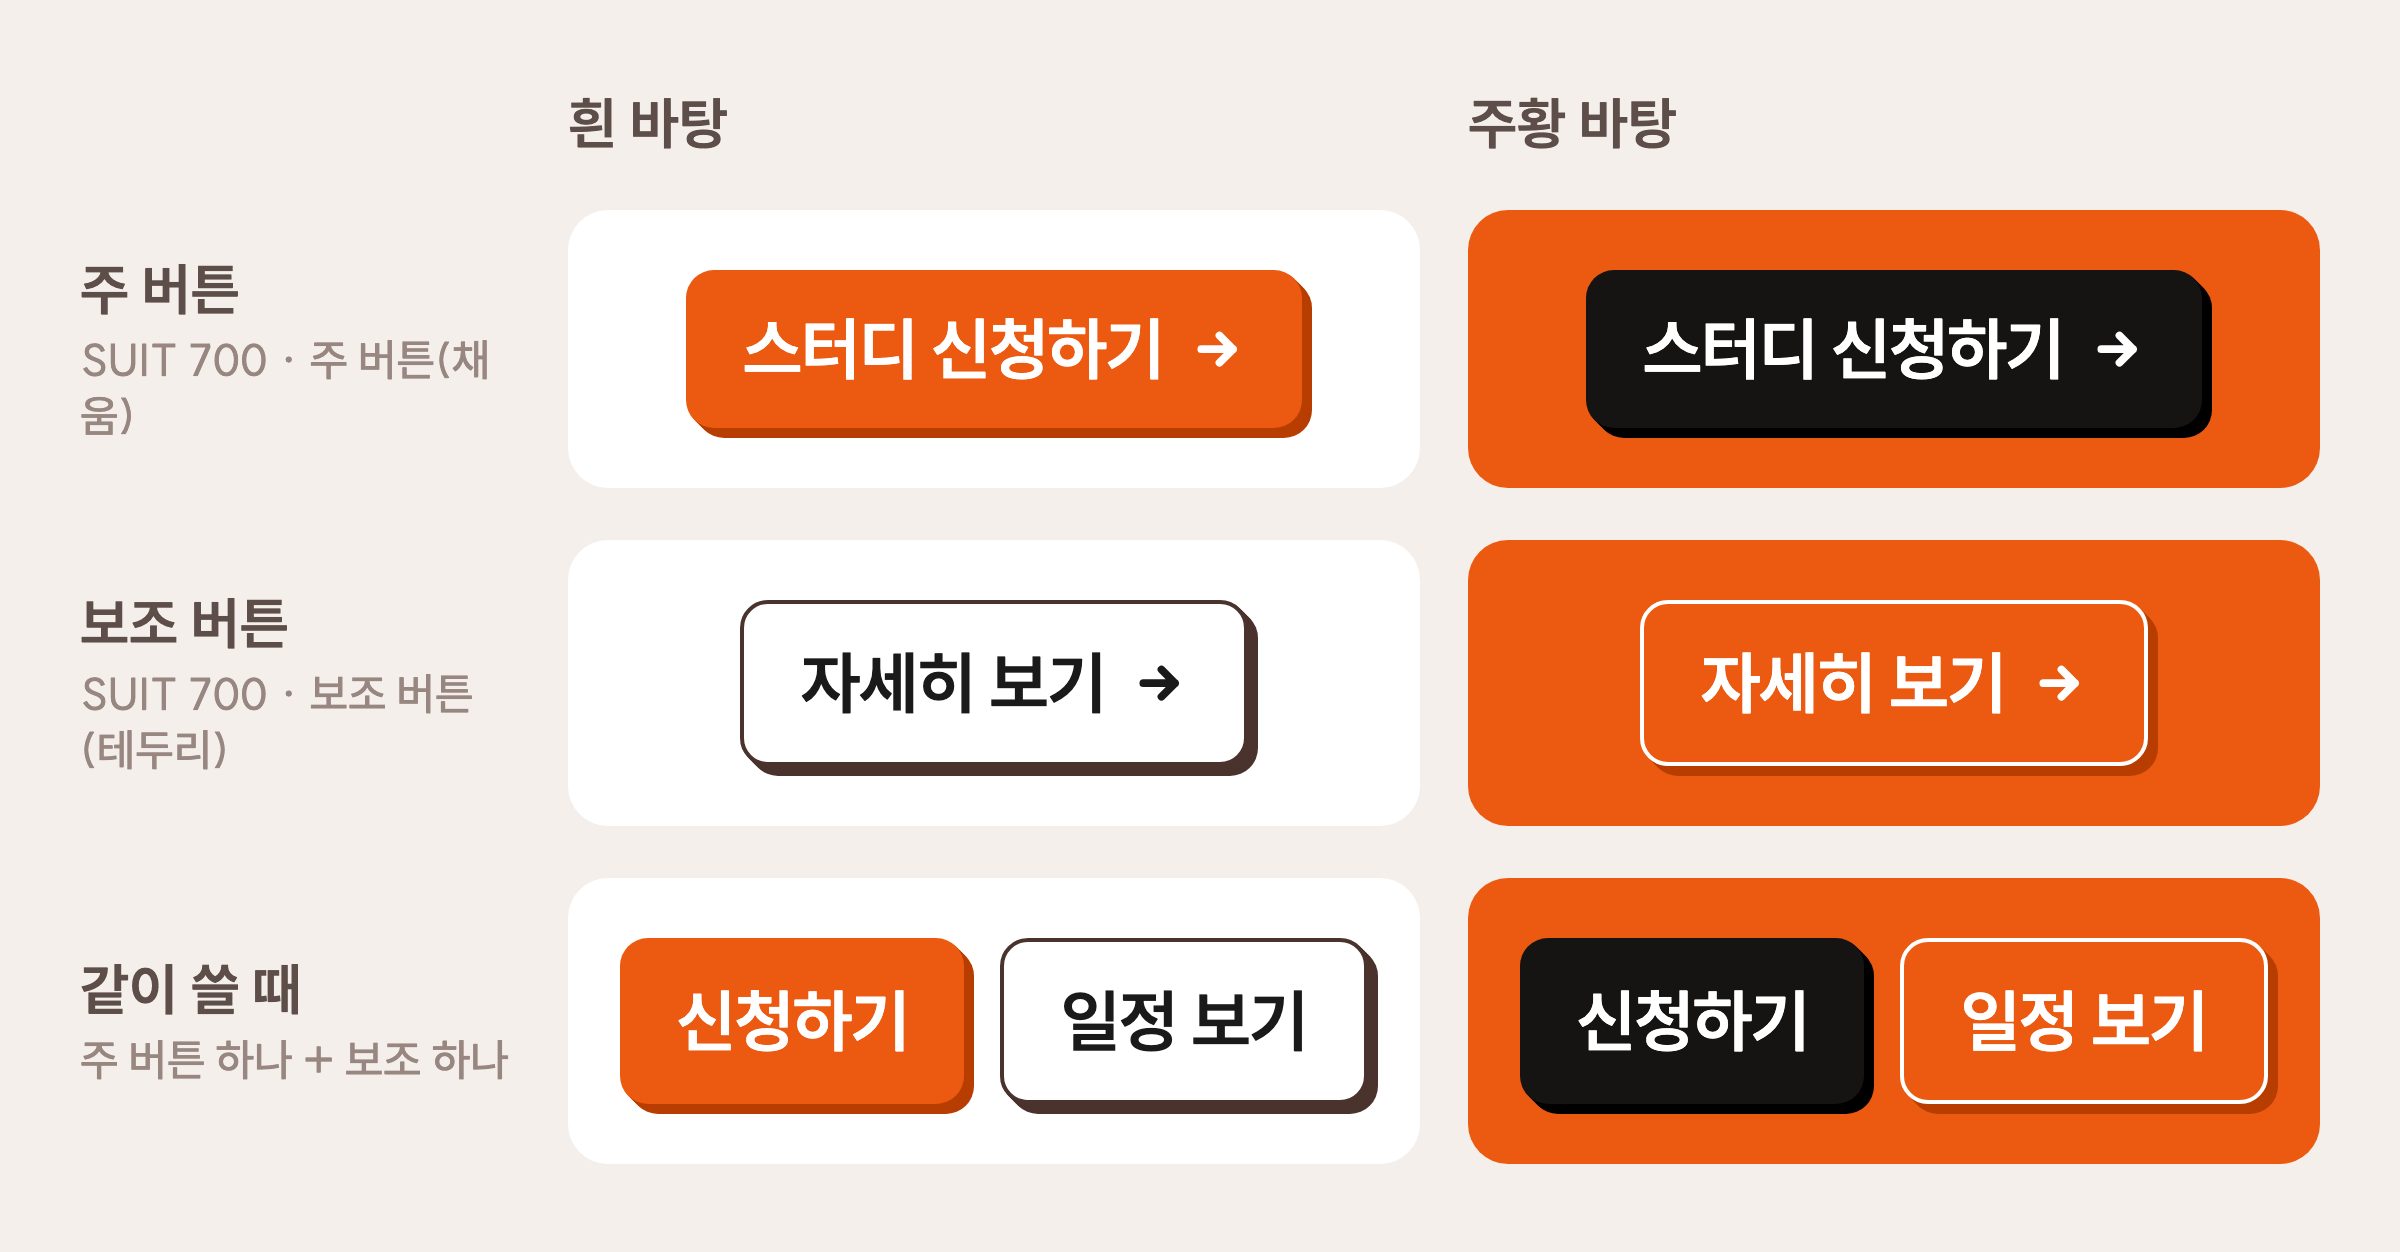
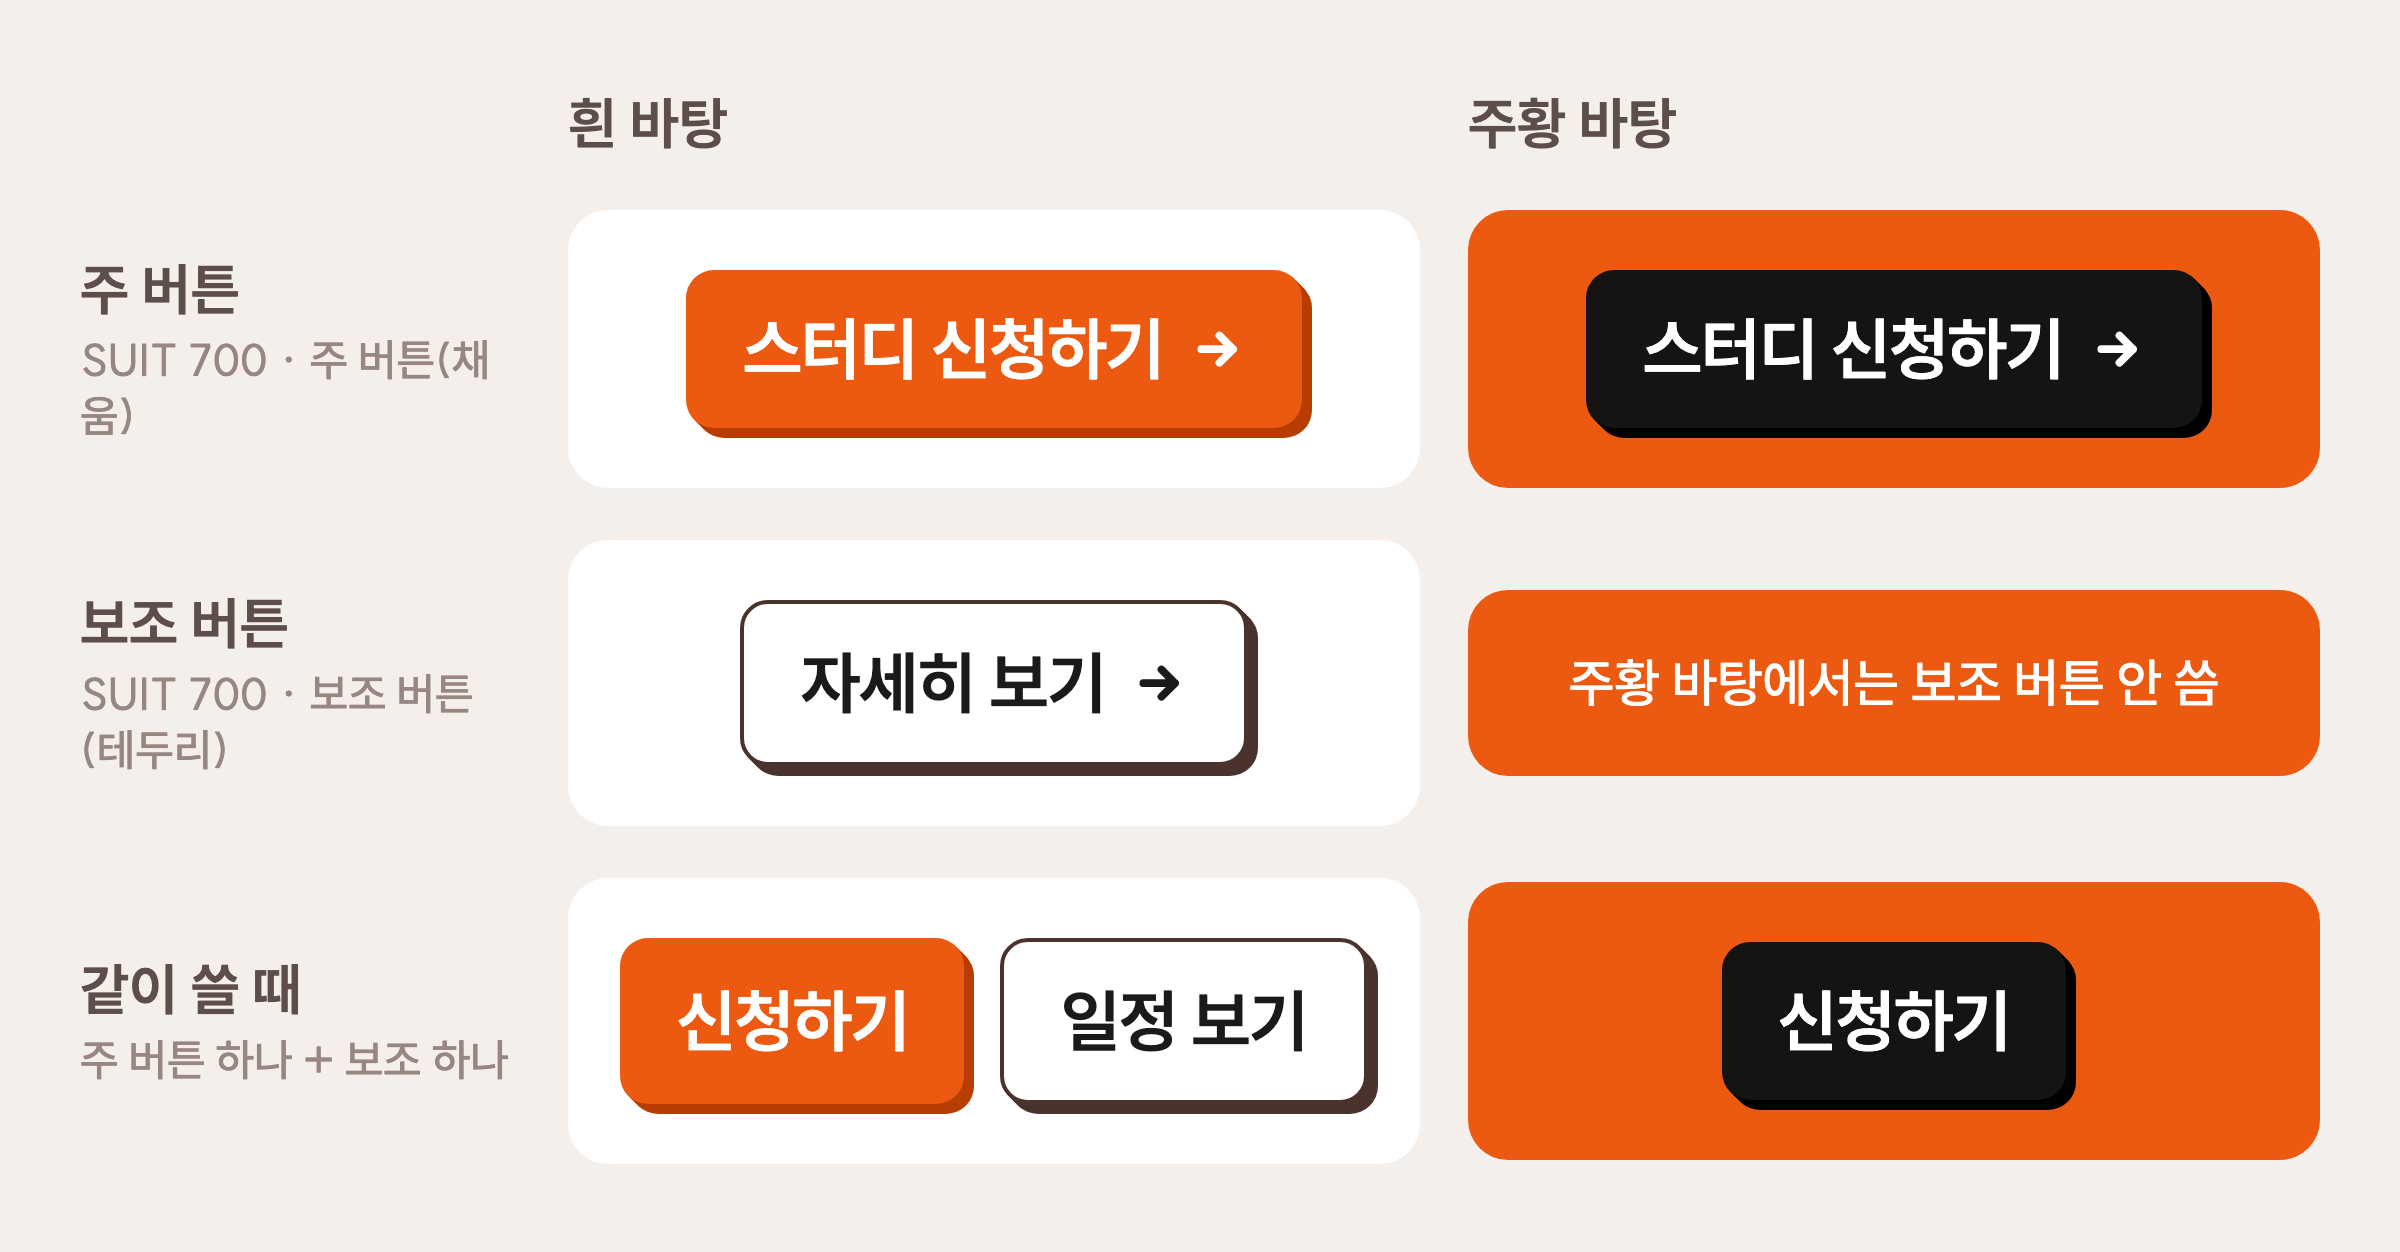
주황 바탕 위 보조 버튼 제거

Changed region(s): [[0.5938, 0.405, 0.9688, 0.7165], [0.625, 0.7476, 0.9688, 0.9345]]

diff --git a/DESIGN.md b/DESIGN.md
@@ -132,7 +132,7 @@ AI를 함께 공부하고 성장하는 사람들이 모인 커뮤니티. 4주 AI
 ## 5-3. CTA
 - 🔴 버튼은 두 종류, 글자는 둘 다 SUIT 700(10/19 확정, 900보다 700이 낫다):
   - **주 버튼(채움):** 주황 `#EB5A10` 면 + 오른쪽 아래 돌출 5px `#B83D00`(1px씩 쌓기), 흰 글자. 주황 바탕 위에서는 먹색 `#151413` 면 + 검정 돌출.
-  - **보조 버튼(테두리):** 흰 면 + 테두리 `2.5px #4A332C` + 같은 색 오른쪽 아래 돌출 5px, 먹색 글자. 주황 바탕 위에서는 흰 테두리·흰 글자, 면 없음, 돌출 `#B83D00`.
+  - **보조 버튼(테두리):** 흰 면 + 테두리 `2.5px #4A332C` + 같은 색 오른쪽 아래 돌출 5px, 먹색 글자. 주황 바탕 위에서는 보조 버튼을 쓰지 않는다(주 버튼 하나만).
   - 같이 쓸 때 주 버튼 하나 + 보조 하나. 예시 `assets/examples/buttons.png`.
 - 한 장에 주 CTA 하나(주황 면). 보조는 테두리 버튼이나 글자 링크, 버튼은 두 개까지.
 - 라벨은 누르면 생기는 일을 동사로("스터디 보기", "구독하기"). 헤드의 말을 버튼에서 반복하지 않는다.
